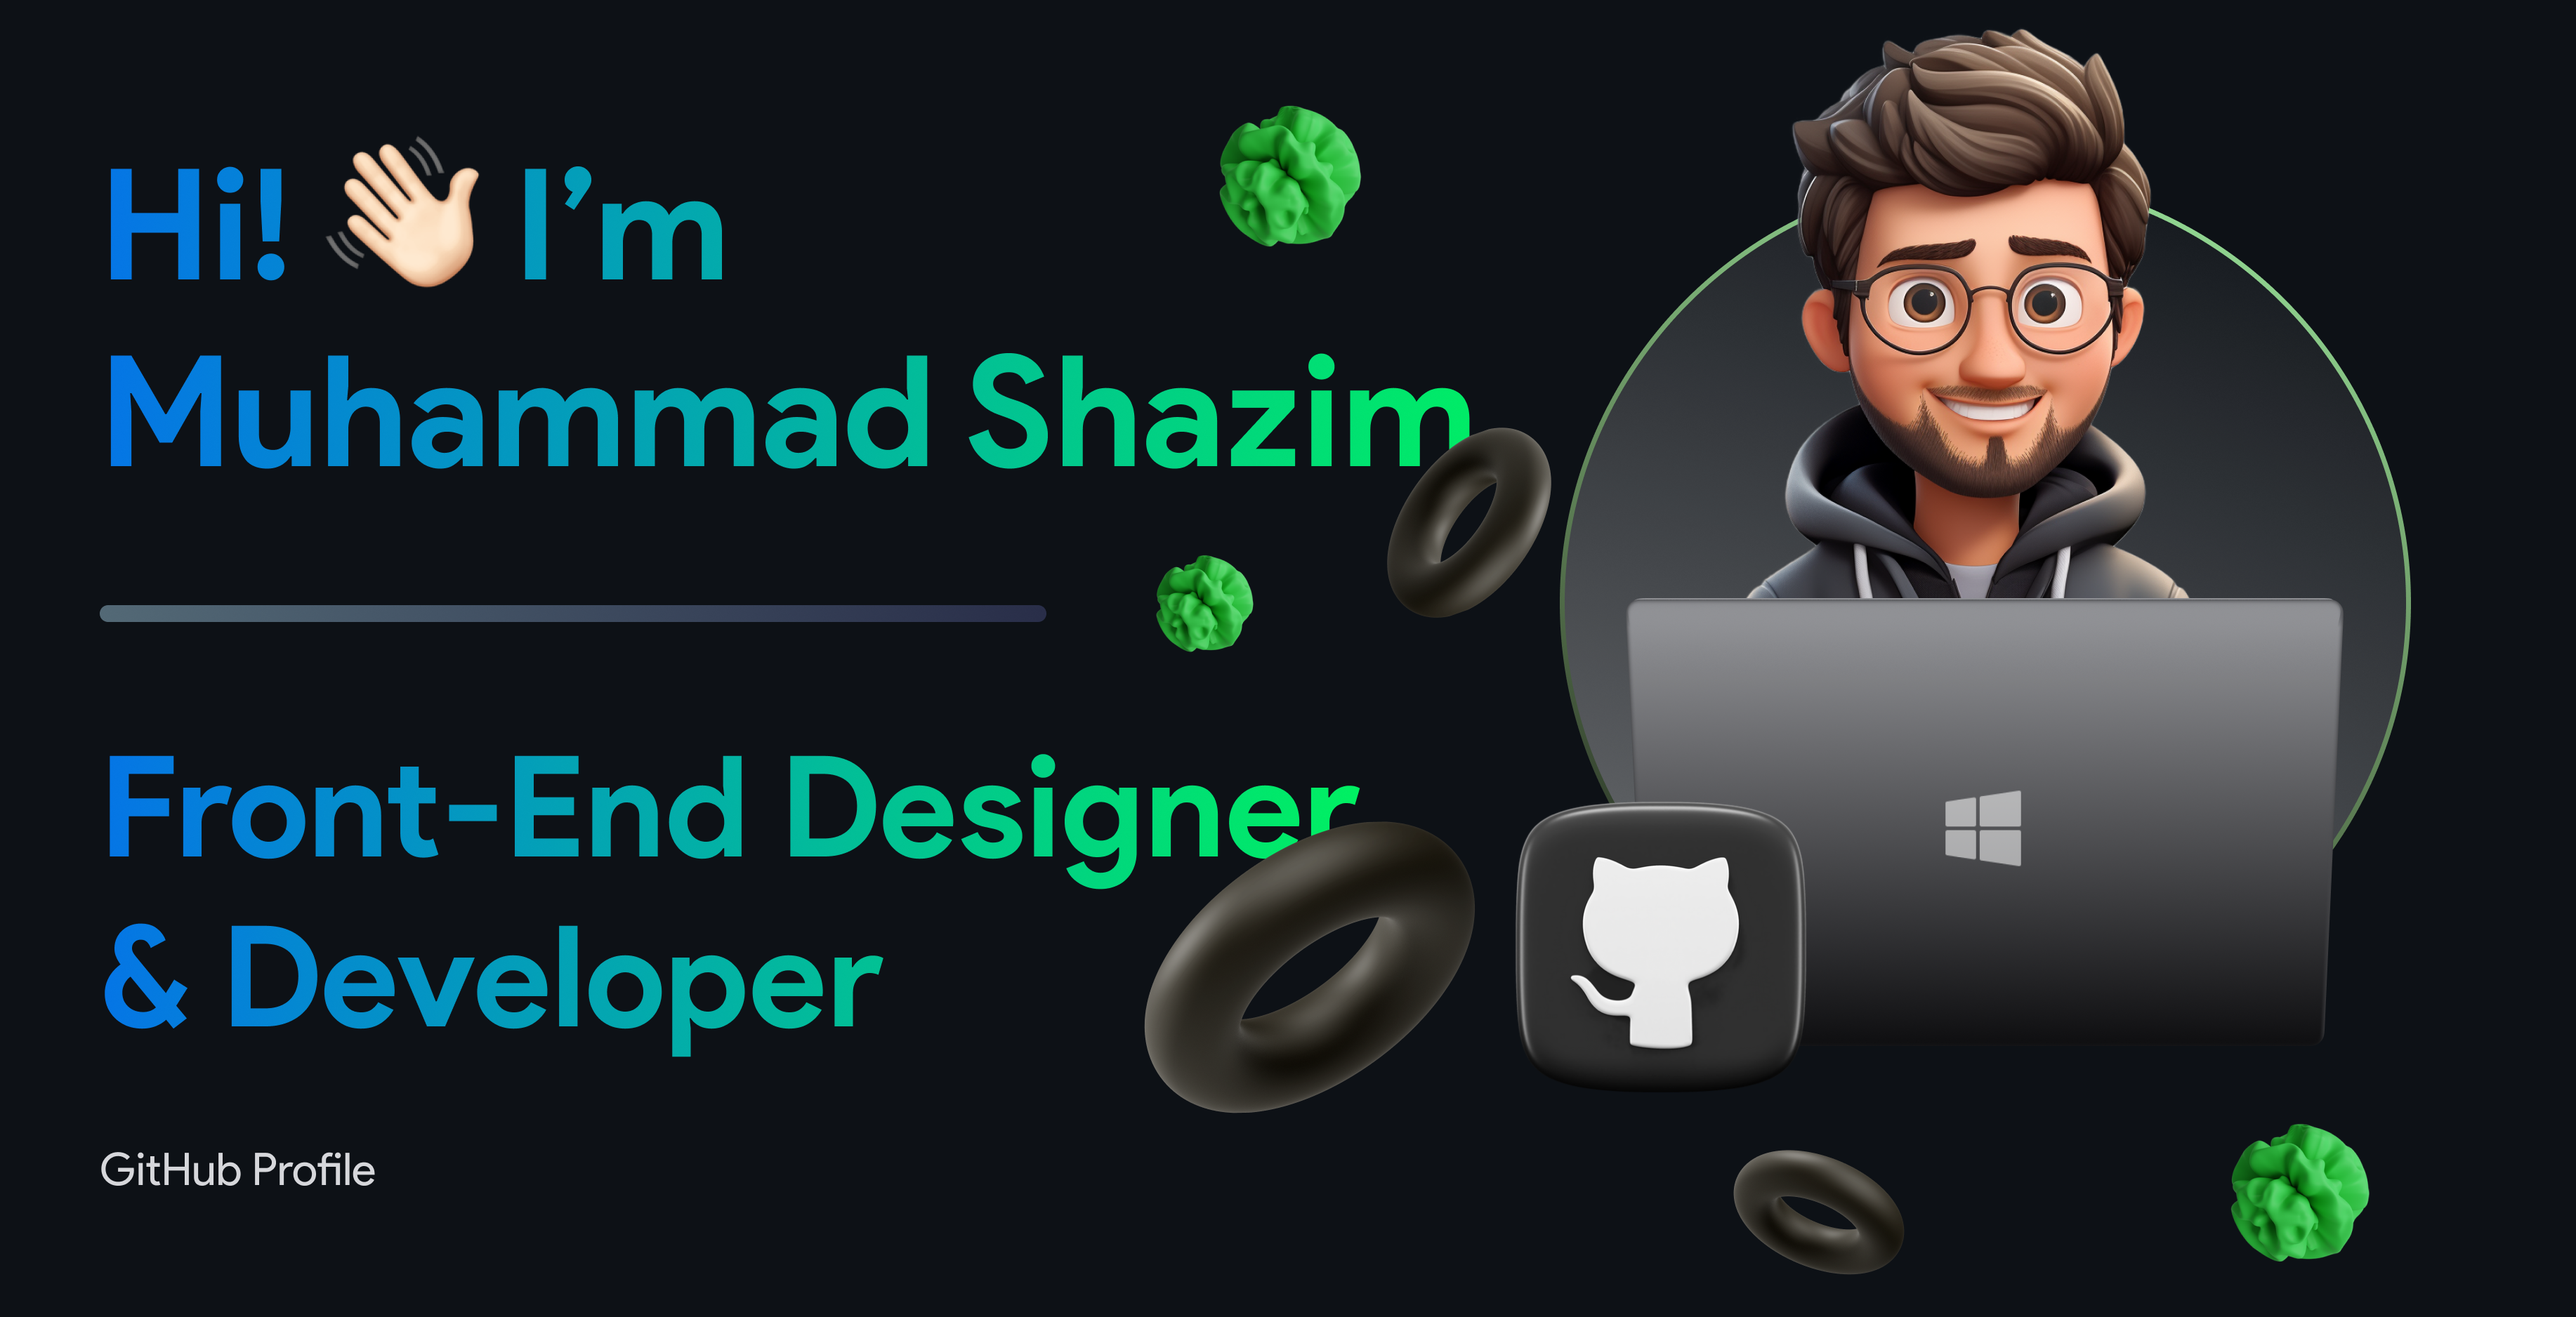
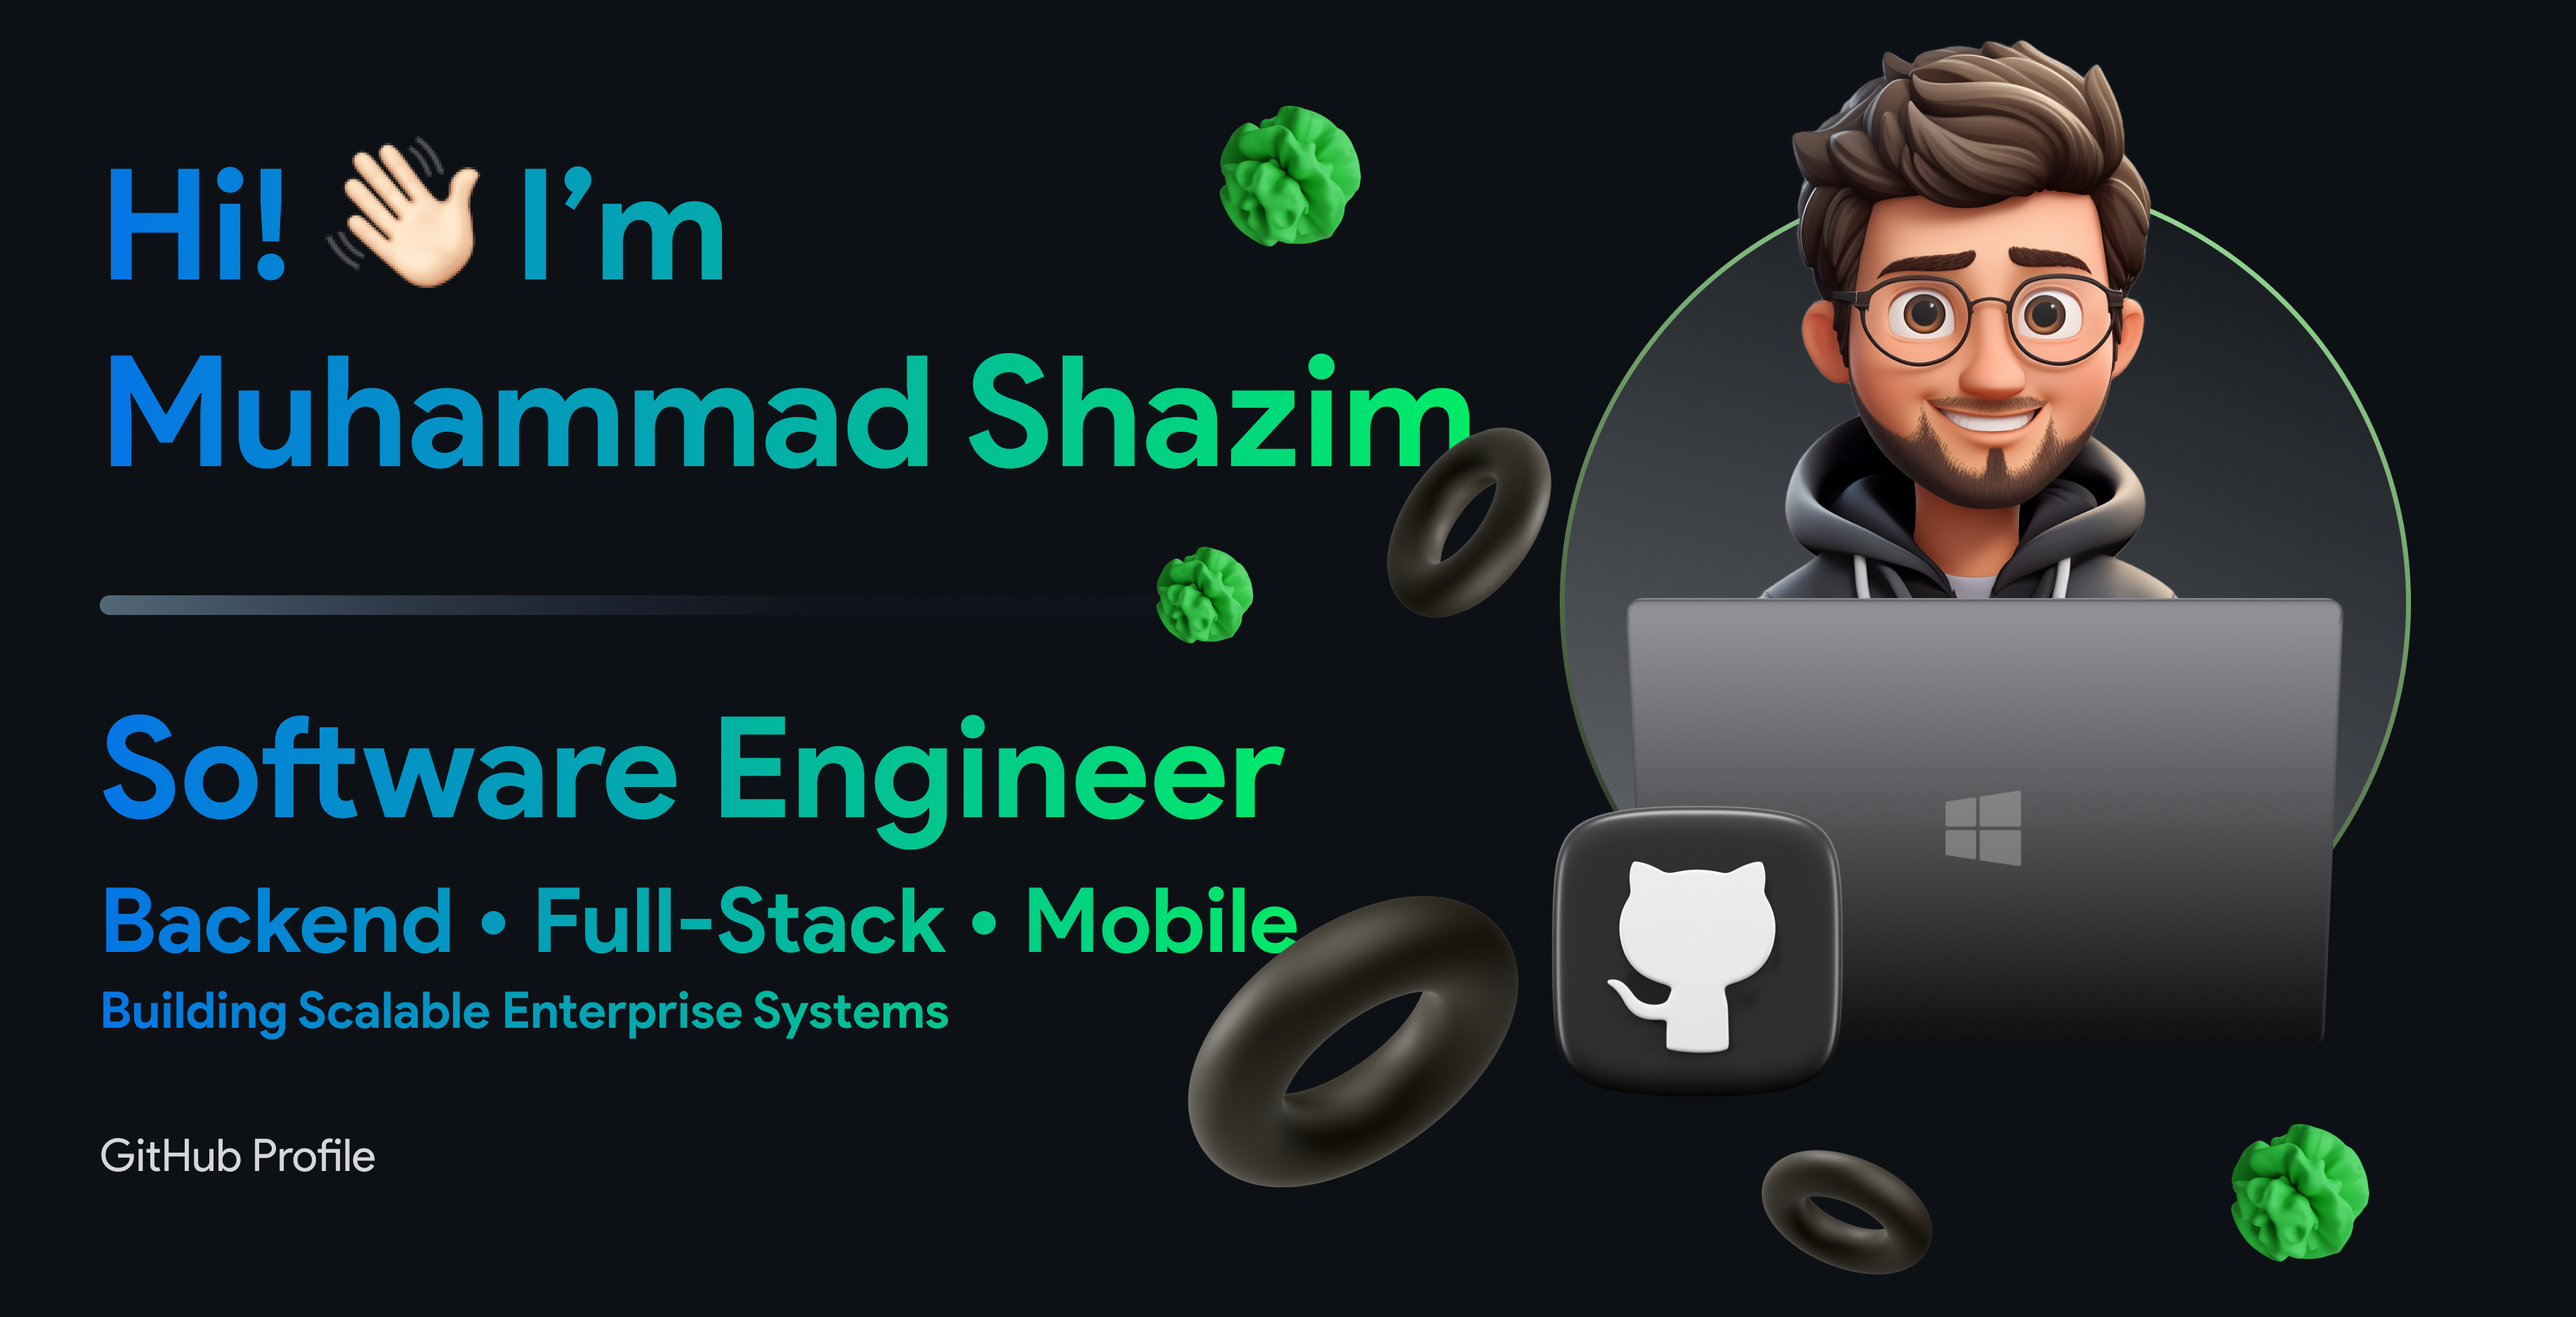
updated readme

diff --git a/README.md b/README.md
@@ -3,37 +3,74 @@
 </p>
 
 
-## 💬 About Me!
+## 🧑🏻💻 About Me
 
-**Welcome to my GitHub profile!** 👨🏻💻
+I'm a Software Engineer specializing in **.NET MVC, SQL Server, Enterprise reporting systems, Backend development, and cross-platform mobile applications**.
+I’ve worked on large-scale portals such as **Pivotal's Rhythm** and multiple **Reconext systems**, building reporting modules, APIs, workflows, and dashboards.
 
-<div align="justify">
-  I'm a passionate 3rd-year Software Engineering undergrad and Front-end Developer From Pakistan 🌍. My journey in the tech world started with building a strong foundation in Web Development, and I'm constantly exploring and mastering new front-end technologies. I thrive on challenges and love to dive deeper into this dynamic industry to gain practical experience💡. Collaborating with experienced professionals excites me, and I can't wait to contribute to impactful projects that make a difference. Besides coding, I'm also a skilled UI/UX designer 🎨.I have a great understanding of the laws governing design, enabling me to craft user-friendly and visually appealing experiences.As I continue to expand my skillset and passion for creativity 🚀, I'm thrilled to share my projects and progress with the amazing GitHub community. <img align="right" alt="GIF"         src="https://media2.giphy.com/media/v1.Y2lkPTc5MGI3NjExcmNkaDVzeHh3YWo5c3FlMXlhbHkyczVvb3JhdnJqM3RjN2dhaXkxeCZlcD12MV9pbnRlcm5hbF9naWZfYnlfaWQmY3Q9Zw/wLNuW1tCKRiPmDV5Y4/giphy.gif" />Let's connect, collaborate, and make a mark in the tech world together! Feel free to explore my repositories and don't hesitate to reach out for collaboration opportunities. Happy coding! 😊
-</div>
+I also have experience delivering production-grade mobile apps using **Flutter**, integrating **REST APIs, Firebase**, and clean architecture.
 
-<br />
+I enjoy solving real-world engineering problems, improving system performance, and building reliable, scalable solutions.
+Currently exploring **Azure, Power Platform, and modern frontend stacks (React, Next.js)**.
 
-**From Lines of Code to Personal Interests:**
+<!-- Gif -->
+<!-- <img align="right" alt="GIF"         src="https://media2.giphy.com/media/v1.Y2lkPTc5MGI3NjExcmNkaDVzeHh3YWo5c3FlMXlhbHkyczVvb3JhdnJqM3RjN2dhaXkxeCZlcD12MV9pbnRlcm5hbF9naWZfYnlfaWQmY3Q9Zw/wLNuW1tCKRiPmDV5Y4/giphy.gif" /> -->
 
-- 🌱  Currently, I'm on an exciting learning journey with Flutter.
-- 🧠  Unbounded Passion for Coding and Tech, Eager to Expand Skills in Diverse Tech Domains.
-- 🎮  Passionate Gaming Enthusiast, Thriving in Virtual Worlds and Embracing Challenging Gameplay.
-- 📫  How to reach me: [aslamshazim20@gmail.com](mailto:aslamshazim20@gmail.com)
-- ⚡  Fun fact: I'm a self-proclaimed foodie, and I never miss a chance to try out new cuisines and exotic dishes. Exploring the world through food is my idea of a perfect adventure! 🍔🍣
+
+## 🏢 Professional Experience
+
+### 💼 Junior Software Engineer — *WinIT Solutions Pvt Ltd*
+**Jan 2025 – Present | Karachi, Pakistan**  
+- Working on enterprise reporting portals using **.NET MVC**, **SQL Server**, **SSIS**, **SSRS**, and **legacy ASP.NET**.  
+- Developed reporting modules, backend logic, workflows, and optimization for **Pivotal’s Rhythm** portal.  
+- Built and improved enterprise dashboards including **Rhythm-TV**, focusing on performance and usability.  
+- Implemented SSRS reports (parameterized, drill-down, subscription-based) across Pivotal & Reconext systems.
+
+
+
+### 💼 Fullstack Developer I — *Axon Solutions*
+**Nov 2023 – Dec 2024 | Karachi, Pakistan**  
+- Developed production-ready Flutter apps including **Hairsol** and **ALRS/Atlas Reservations**.  
+- Architected and developed **.NET Core backend APIs**, incorporating role-based authentication and operational booking workflows.  
+- Worked with **Firebase** for notifications, real-time updates, and user authentication.  
+- Delivered clean UI/UX using Flutter widgets, reusable components, and scalable mobile architecture.
+
+## 🚀 Featured Projects
+
+| Project | Description | Tech Stack | Live / Repo |
+|--------|-------------|-------------|-------------|
+| **🖥 Rhythm Portal & Rhythm-TV** | Contributed to the core **Rhythm portal** (Pivotal’s) by building & maintaining modules for reporting, job scheduling, data serialization, and form-based workflows. Also independently developed **Rhythm-TV**, a lightweight reporting dashboard that improved accessibility, usability, and performance across operational teams. | [![Tech](https://skillicons.dev/icons?i=dotnet,cs,mysql,html,css,js,bootstrap,jquery&perline=3)](https://skillicons.dev) | 🔗 *Private (Enterprise Project)* |
+| **📊 Reconext Portals (Plus-RS, Plus Tools, Partners EP, Octel, Octance)** | Developed and maintained **SSRS reports** and custom reporting interfaces across multiple Reconext enterprise portals. Work included drill-down, parameterized, and subscription-based reports, along with optimized SQL queries and reporting pages to ensure reliable, accurate business data across internal and client-facing systems. | [![Tech](https://skillicons.dev/icons?i=dotnet,cs,mysql,html,css,js,bootstrap,jquery&perline=3)](https://skillicons.dev) | 🔗 *Private (Enterprise Project)* |
+| **📱 Hairsol – Salon Management App** | A production-grade Flutter app with appointment scheduling, staff coordination, service/product handling, and Firebase push notifications. Backend APIs built in .NET Core ensured secure authentication, booking workflows, and payment logic. | [![Tech](https://skillicons.dev/icons?i=flutter,dart,firebase,dotnet,mysql&perline=3)](https://skillicons.dev) | 🌐 [Play Store](https://play.google.com/store/apps/details?id=com.enitan.hairsol_mobileapp&hl=en) |
+| **🏨 ALRS / Atlas Reservations** | A dual-role Flutter app supporting hotel room bookings and staff operations. Includes booking history, issue tracking, real-time status updates, and secure authentication backed by .NET Core APIs and role-based views. | [![Tech](https://skillicons.dev/icons?i=flutter,dart,firebase,dotnet,mysql&perline=3)](https://skillicons.dev) | 🌐 [App Store](https://apps.apple.com/us/app/alrs/id1123137166) |
+| **🤖 HIREXCEL – AI Recruitment Platform** | AI-based recruitment system built using Python & Django, integrating cognitive, personality, and technical assessments. Features automated scoring pipelines, candidate evaluation logic, report generation, and a scalable backend integrated via OpenAPI. | [![Tech](https://skillicons.dev/icons?i=python,django,sqlite&perline=3)](https://skillicons.dev) | 🗂 [Repo](https://github.com/MShazim/hirexcel-project) |
+
+
+
+## 🌟 Personal Interests
+
+- 📘 Currently expanding my expertise in **.NET backend development, SQL Server, cloud technologies (Azure), and modern full-stack development practices**.  
+- 💡 Strong passion for **software engineering, problem-solving, and learning new technologies** across full-stack and cloud domains.  
+- 🎮 Enjoy gaming as a way to relax, stay competitive, and improve strategic thinking.  
+- 🍽 Food lover who enjoys exploring new cuisines and trying out interesting dishes.  
+- 📫 Always open to collaboration and discussions — reach me at: **aslamshazim20@gmail.com**
+
 
 <div align="right">
   <a href="https://www.github.com/MShazim" target="_blank" rel="noreferrer"><img src="https://img.shields.io/github/followers/MShazim?logo=github&style=for-the-badge&color=89e051&labelColor=181824" /></a>
-  <a href="https://www.github.com/MShazim" target="_blank" rel="noreferrer"><img src="https://komarev.com/ghpvc/?username=MShazim&style=for-the-badge&color=69ad3e&labelColor=181824" /></a>
+  <a href="https://www.github.com/MShazim" target="_blank" rel="noreferrer"><img src="https://komarev.com/ghpvc/?username=MShazim&style=for-the-badge&color=89e051&labelColor=181824" /></a>
 </div>
+
 
 ## 💡 Skills
 
-### ⚡Tech Stack
+### ⚡ Tech Stack
+[![My Skills](https://skillicons.dev/icons?i=cs,dotnet,flutter,dart,firebase,py,django,html,css,bootstrap,js,ts,jquery,react,next,mysql)](https://skillicons.dev)
 
-[![My Skills](https://skillicons.dev/icons?i=dart,flutter,py,cs,java,html,css,bootstrap,js,react,nodejs,jquery,mongodb,mysql,postgres)](https://skillicons.dev)
 
-### 🛠 Tools
-[![My Skills](https://skillicons.dev/icons?i=git,materialui,tailwind,figma,ai,ps,xd,linux,postman,visualstudio,vscode,androidstudio,eclipse,azure,babel)](https://skillicons.dev)
+### 🛠 Tools & Platforms
+[![My Skills](https://skillicons.dev/icons?i=git,github,postman,materialui,tailwind,visualstudio,vscode,figma,androidstudio,docker,vercel,azure,linux,npm)](https://skillicons.dev)
+
 
 
 ## 🌐 Socials
